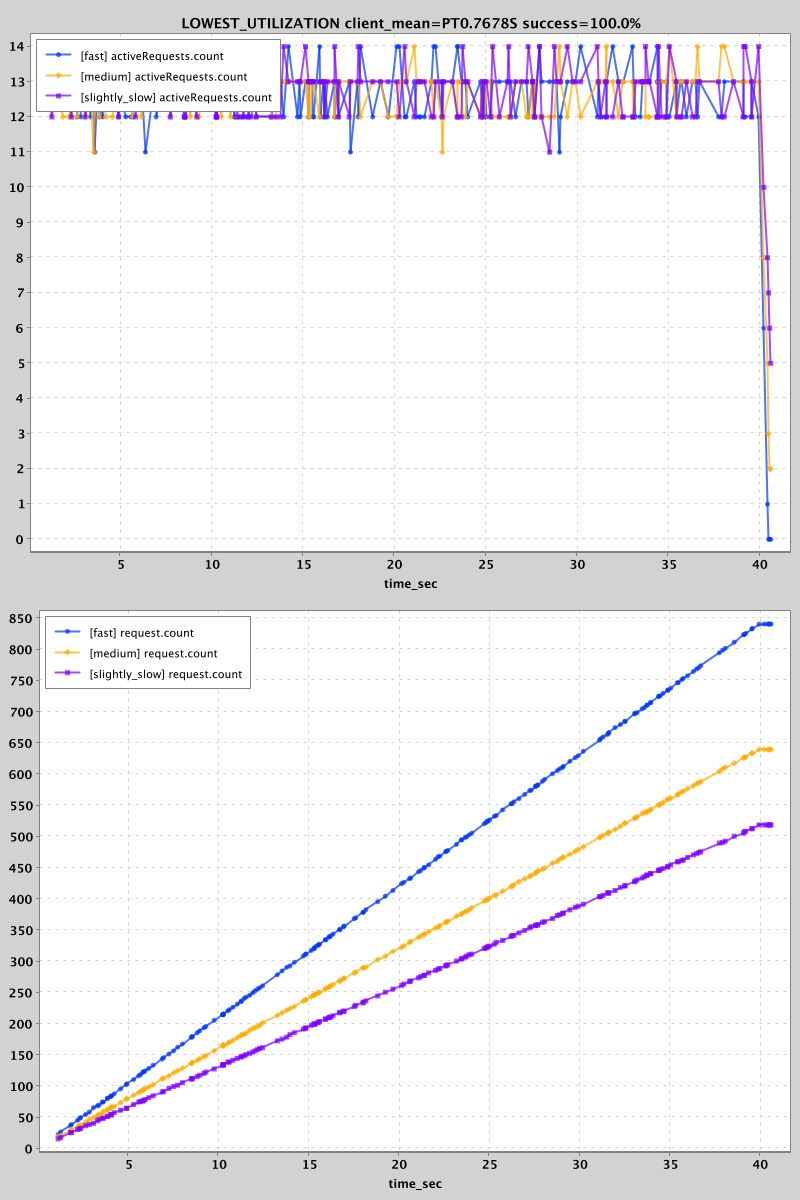
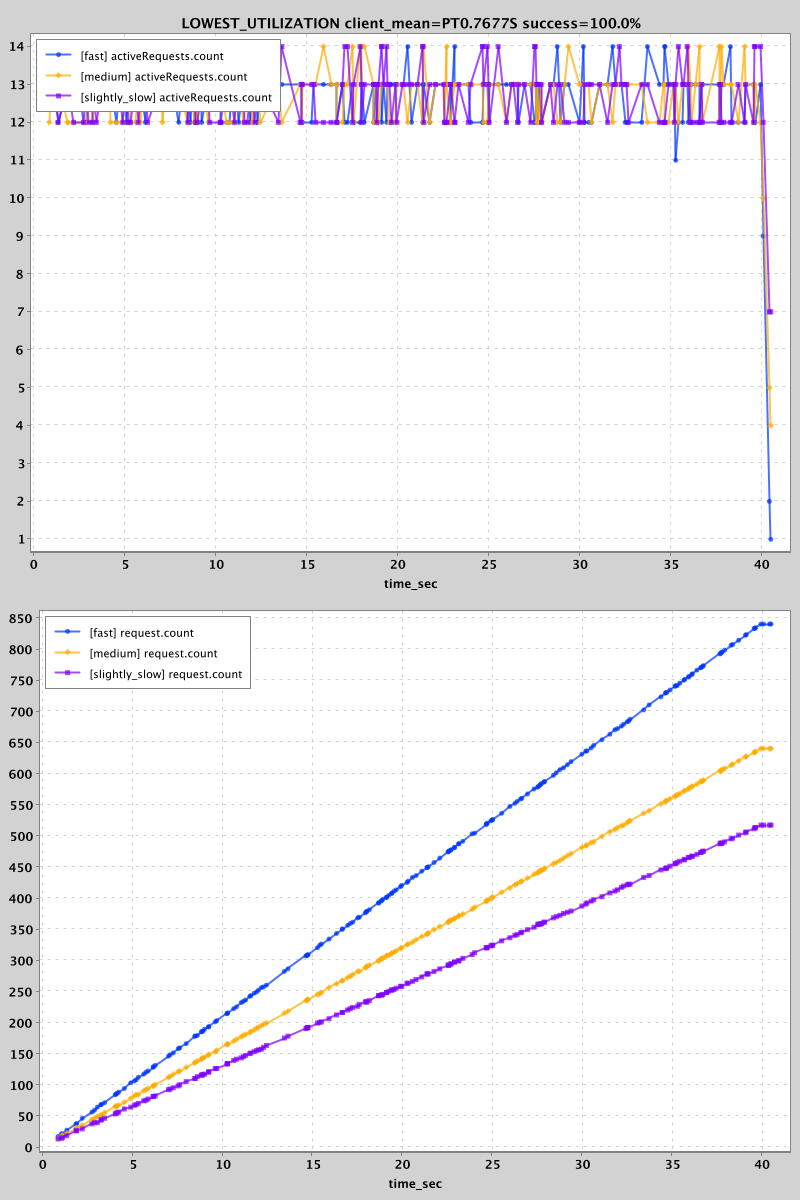
Blacklisting channel behaves weirdly when the floodgates re-open

diff --git a/simulation/src/test/java/com/palantir/dialogue/core/SimulationTest.java b/simulation/src/test/java/com/palantir/dialogue/core/SimulationTest.java
@@ -188,11 +188,11 @@ public class SimulationTest {
     private static Channel lowestUtilization(Simulation sim, Channel... channels) {
         ImmutableList<LimitedChannel> chans = Arrays.stream(channels)
                 .map(SimulationTest::noOpLimitedChannel)
-                .map(c -> new BlacklistingChannel(c, Duration.ofSeconds(10), sim.clock()))
+                .map(c -> new BlacklistingChannel(c, Duration.ofSeconds(1), sim.clock()))
                 .collect(ImmutableList.toImmutableList());
         LimitedChannel idea = new PreferLowestUtilization(chans, sim.clock(), SimulationUtils.DETERMINISTIC);
         return dontTolerateLimits(idea);
-    }
+    }   
 
     private static Channel concurrencyLimiter(Simulation sim, Channel... channels) {
         List<LimitedChannel> limitedChannels = Stream.of(channels)
